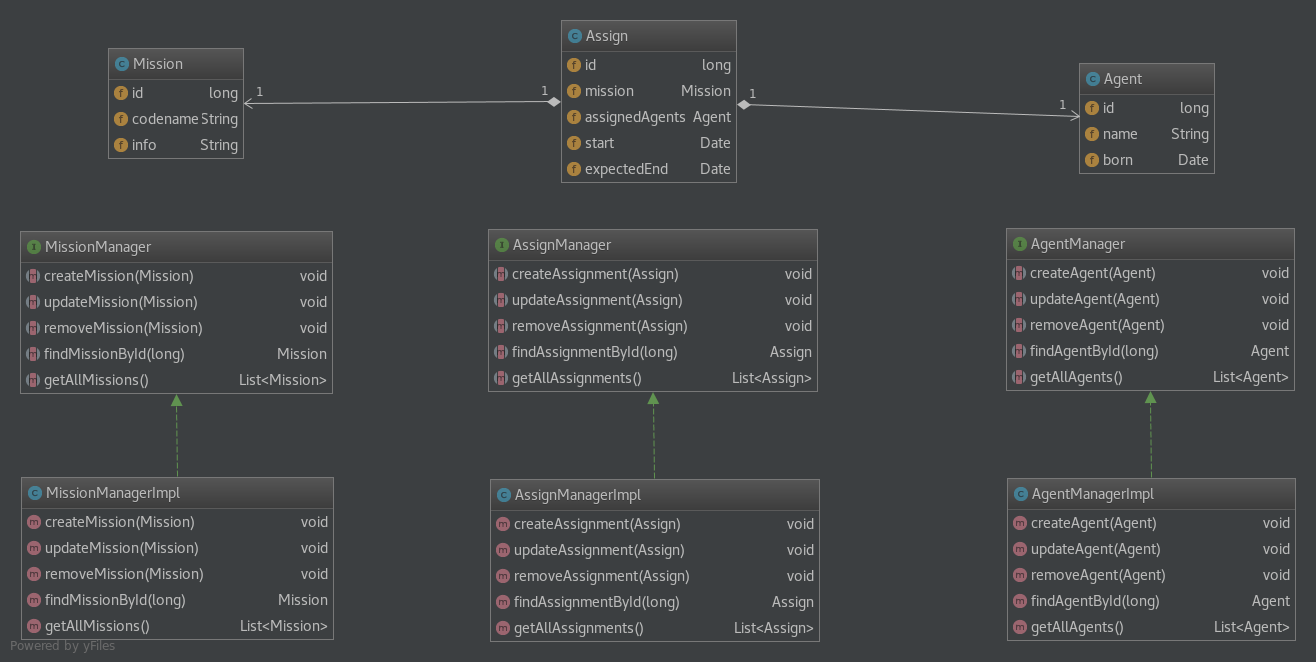
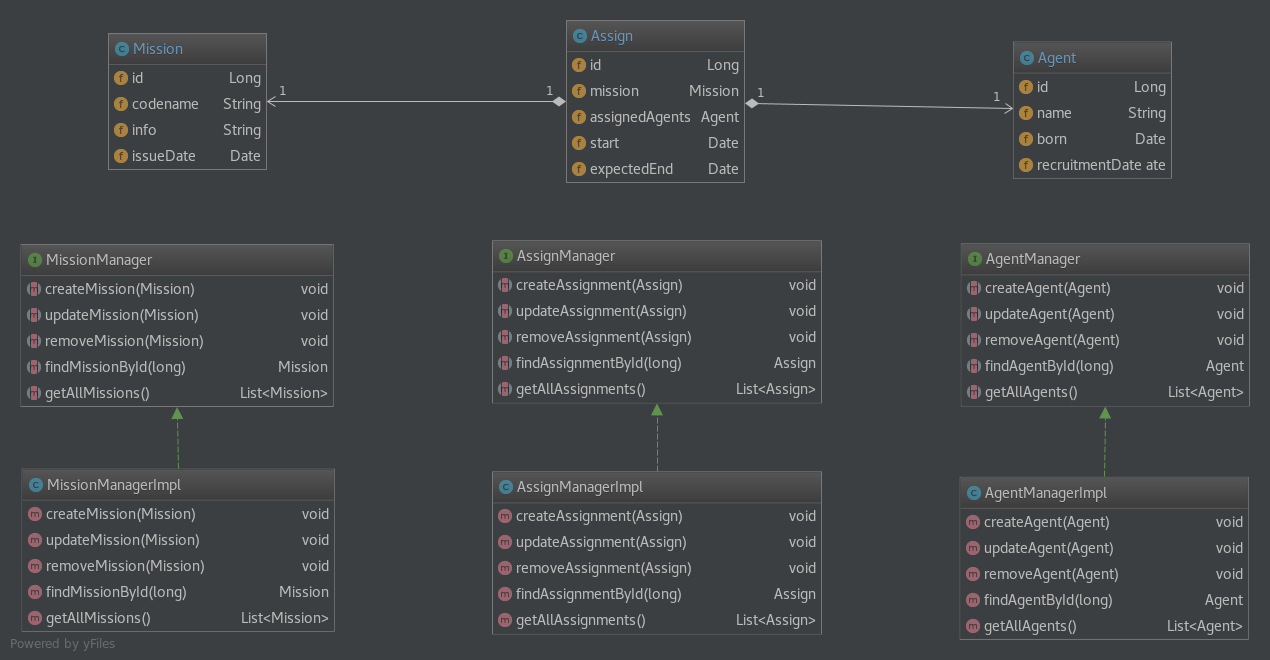
added atributes and new diagram

diff --git a/src/main/java/Agency/Mission.java b/src/main/java/Agency/Mission.java
@@ -1,11 +1,14 @@
 package Agency;
 
+import java.util.Date;
+
 /**
  * Created by Navratil Peter (xnavrat8@mail.muni.cz) on ${DATE}.
  */
 
 public class Mission {
-    private long id;
+    private Long id;
     private String codename;
     private String info;
+    private Date issueDate;
 }

diff --git a/src/main/java/Agency/Assign.java b/src/main/java/Agency/Assign.java
@@ -7,7 +7,7 @@ import java.util.Date;
  */
 
 public class Assign {
-    private long id;
+    private Long id;
     private Mission mission;
     private Agent assignedAgents;
     private Date start;

diff --git a/src/main/java/Agency/Agent.java b/src/main/java/Agency/Agent.java
@@ -7,7 +7,8 @@ import java.util.Date;
  */
 
 public class Agent {
-    private long id;
+    private Long id;
     private String name;
     private Date born;
+    private Date recruitmentDate;
 }
